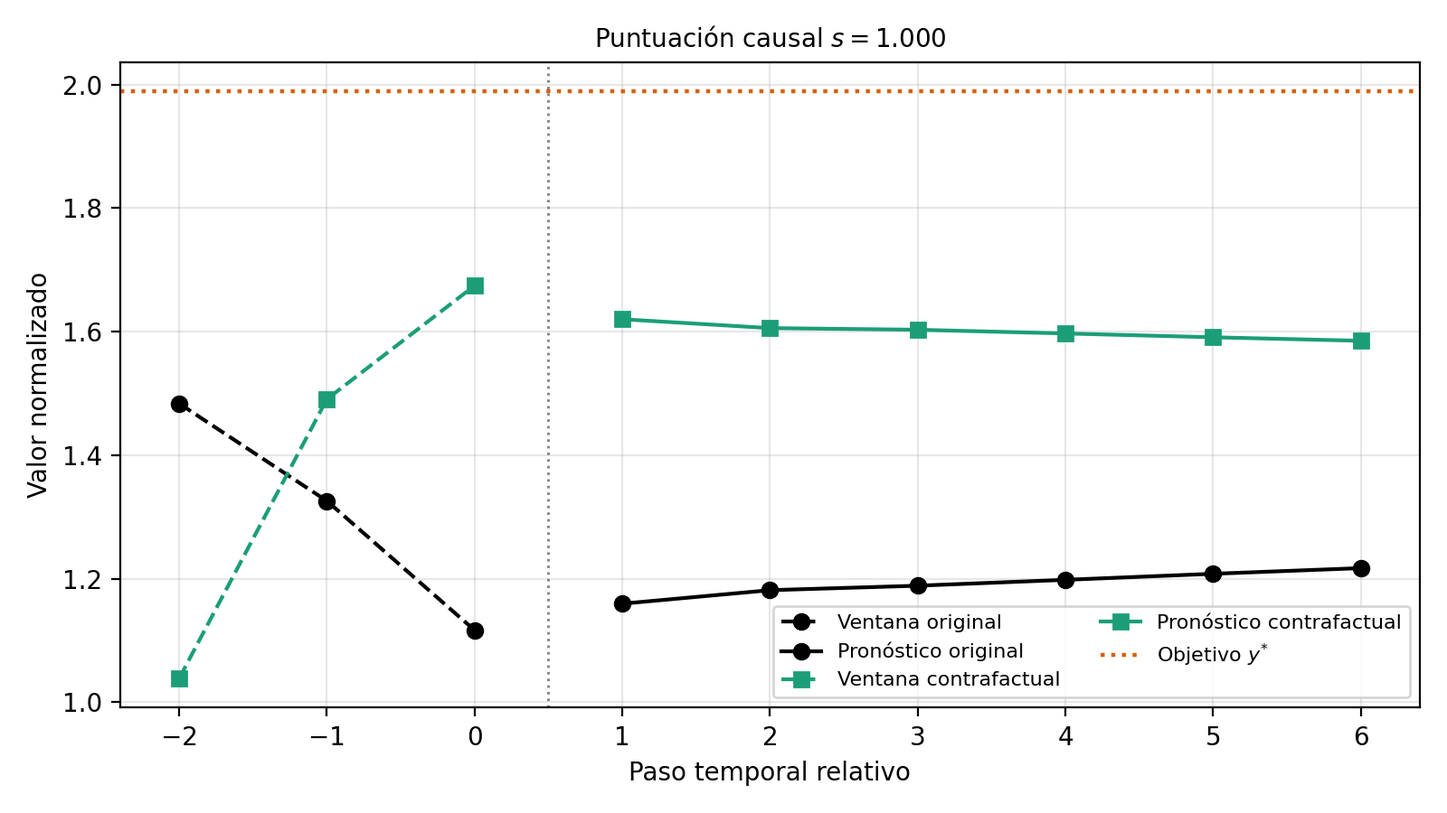
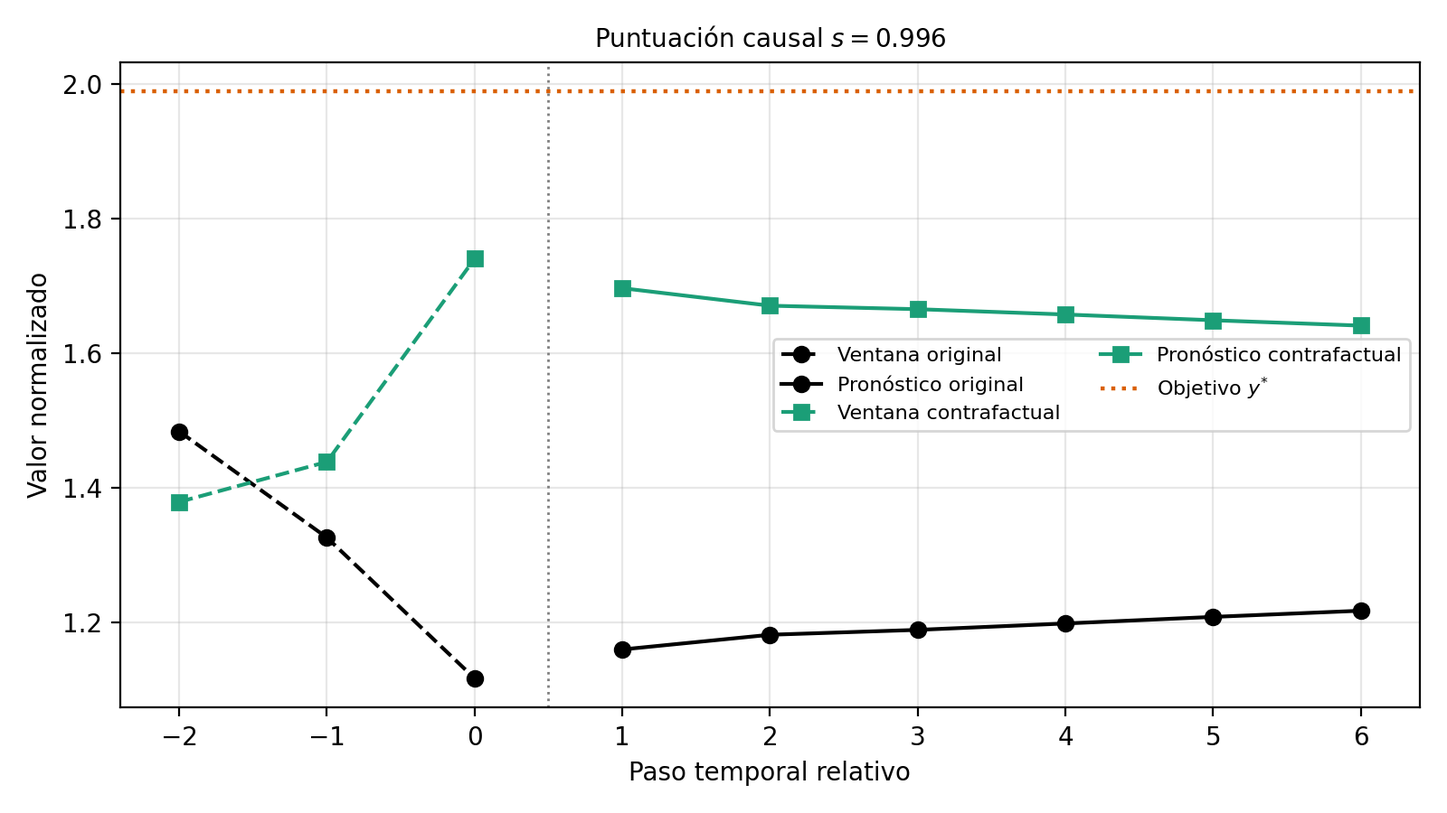
doc: añadir VAR(4)

diff --git a/docs/report/report.tex b/docs/report/report.tex
@@ -1541,7 +1541,7 @@ Los métodos de XAI son diversos y permiten atacar los problemas de explicabilid
 \end{itemize}
 
 \chapter{Estado del arte}
-
+\label{cap:estadodelarte}
 \section{Explicaciones contrafactuales}
 
 Las explicaciones contrafactuales son predicciones que describen el cambio mínimo a realizar a una instancia para que el modelo prediga un nuevo valor predefinido. Estas predicciones responden a preguntas del tipo \textit{"si X no hubiese ocurrido, Y no habría ocurrido"}, como por ejemplo \textit{"si hubiese tenido mayor salario, me habrían concedido el préstamo"}. Las explicaciones contrafactuales son predicciones sobre mundos hipotéticos, ya que la instancia original es el suceso que en realidad sí ocurrió. Las explicaciones contrafactuales deben ser amigables con los seres humanos, similares a la instancia original, accionables y variadas \cite{molnar2025}.
@@ -2795,6 +2795,7 @@ En el ejemplo anterior se observan los siguientes aspectos relevantes:
 \end{itemize}
 
 \chapter{Resultados}
+\label{cap:resultados}
 
 En este capítulo se presenta una evaluación contra la implementación del algoritmo \texttt{CFGTS}, descrito en el Capítulo~\ref{cap:propuesta}. El protocolo de evaluación está basado en el trabajo de \cite{Wang2023} y \cite{Kan2024}. Para ello se intenta responder a la pregunta, \textit{¿incorporar la puntuación causal aporta información relevante al contrafactual?}
 
@@ -2802,7 +2803,7 @@ En este capítulo se presenta una evaluación contra la implementación del algo
 
 \subsection{Conjuntos de datos}
 
-Se emplean dos conjuntos de datos, resumidos en la Tabla~\ref{tab:res_datos}. El primero es un conjunto sintético de 20 series AR(2) estacionarias de longitud variable y mecanismo generador lineal, el segundo es la serie de actividad solar \textit{Sunspots} (1700-2008), no lineal y con un ciclo conocido de (aproximadamente) once años.
+Se emplean tres conjuntos de datos, resumidos en la Tabla~\ref{tab:res_datos}. El primero es un conjunto sintético de 20 series AR(2) estacionarias de longitud variable y mecanismo generador lineal, el segundo es un conjunto sintético bivariante VAR(4) de dos variables, y el tercero es la serie de actividad solar \textit{Sunspots} (1700-2008), no lineal y con un ciclo conocido de (aproximadamente) once años.
 
 Cada serie se entrena con los métodos usuales para series temporales, con un split 60, 20, 20, y se normaliza cada variable por por \textit{min-max}.
 
@@ -2822,48 +2823,46 @@ Cada serie se entrena con los métodos usuales para series temporales, con un sp
 
 \subsection{Modelos y objetivos}
 
-A cada conjunto de datos se ajustan dos modelos: una regresión lineal y un \textit{Random Forest}. El valor objetivo de cada instancia se define como una ventana, $y^{*}_d = \operatorname{mediana}(\mathbf{x}_{0,d}) \cdot (1 + cp)$, con $cp = 0{,}50$.
+A cada conjunto de datos se ajustan dos modelos: una regresión lineal y un \textit{Random Forest}. El valor objetivo de cada instancia se define como una ventana de cambio porcentual ($cp$), $y^{*}_d = \operatorname{mediana}(\mathbf{x}_{0,d}) \cdot (1 + cp)$, con $cp = 0{,}50$.
 
-La Tabla~\ref{tab:res_protocolo} recoge la configuración, que constitute 126 ejecuciones de CFGTS.
+La Tabla~\ref{tab:res_protocolo} recoge la configuración, que constitute 216 ejecuciones de CFGTS.
 
 \begin{table}[H]
     \ttabbox[\FBwidth]
     {\caption{Configuración experimental de la evaluación de CFGTS}\label{tab:res_protocolo}}
     {\begin{tabular}{|p{6.2cm}|p{5.8cm}|}
             \hline
-            \textbf{Parámetro}                      & \textbf{Valor}                                                  \\
+            \textbf{Parámetro}                                    & \textbf{Valor}                                                  \\
             \hline
-            Orden de retardo $p$                    & 3                                                               \\
+            Horizonte de predicción $T$                           & 6                                                               \\
             \hline
-            Horizonte de predicción $T$             & 6                                                               \\
+            Partición                                             & 60/20/20                                                        \\
             \hline
-            Partición                               & 60/20/20                                                        \\
+            Normalización                                         & \textit{min-max}                                                \\
             \hline
-            Normalización                           & \textit{min-max}                                                \\
+            Paso entre ventanas de prueba                         & $p + T = 9$                                                     \\
             \hline
-            Paso entre ventanas de prueba           & $p + T = 9$                                                     \\
+            Modelos                                               & Regresión lineal y \textit{Random Forest}                       \\
             \hline
-            Modelos                                 & Regresión lineal y \textit{Random Forest}                       \\
+            \texttt{n\_trials} (Fase~1)                           & 300                                                             \\
             \hline
-            \texttt{n\_trials} (Fase~1)             & 300                                                             \\
+            \texttt{n\_coverage\_trials} (Fase~2)                 & 10                                                              \\
             \hline
-            \texttt{n\_coverage\_trials} (Fase~2)   & 10                                                              \\
+            \texttt{timeout} (tope de seguridad)                  & 60\,s                                                           \\
             \hline
-            \texttt{timeout} (tope de seguridad)    & 60\,s                                                           \\
+            $[r_{\min}, r_{\max}]$                                & $[0,\ 3]$                                                       \\
             \hline
-            $[r_{\min}, r_{\max}]$                  & $[0,\ 3]$                                                       \\
+            \texttt{n\_walk\_steps}                               & 1                                                               \\
             \hline
-            \texttt{n\_walk\_steps}                 & 1                                                               \\
+            Desplazamiento del objetivo de cambio porcentual $cp$ & ${,}50$                                                         \\
             \hline
-            Desplazamiento del objetivo $cp$        & ${,}50$                                                         \\
+            Semillas por instancia                                & $\{0, 1, 2\}$                                                   \\
             \hline
-            Semillas por instancia                  & $\{0, 1, 2\}$                                                   \\
+            Tamaño del submuestreo $K$                            & 5                                                               \\
             \hline
-            Tamaño del submuestreo $K$              & 5                                                               \\
+            Perturbaciones de control por ejecución               & 25                                                              \\
             \hline
-            Perturbaciones de control por ejecución & 25                                                              \\
-            \hline
-            Semilla base                            & 42\footnote{El sentido de la vida, el universo y todo lo demás} \\
+            Semilla base                                          & 42\footnote{El sentido de la vida, el universo y todo lo demás} \\
             \hline
         \end{tabular}}
 \end{table}
@@ -2893,6 +2892,8 @@ Antes de interpretar el \textit{score} se comprueba que los modelos usados son d
             \hline
             Sintético AR(2)   & 7{,}62          & 8{,}07                 \\
             \hline
+            Sintético VAR(4)  & 3{,}80          & 3{,}70                 \\
+            \hline
             \textit{Sunspots} & 15{,}63         & 12{,}94                \\
             \hline
         \end{tabular}}
@@ -2909,13 +2910,17 @@ La Tabla~\ref{tab:res_principal} contiene el resultado central de la evaluación
             \hline
             \textbf{Conjunto} & \textbf{Modelo} & $\bar{s}$            & $\bar{s}_{\text{ctrl}}$ & $\Delta$   & $p$                 \\
             \hline
-            Sintético AR(2)   & Lineal          & ${,}970 \pm 0{,}009$ & ${,}890$                & $+0{,}080$ & $\mathbf{<0{,}001}$ \\
+            Sintético AR(2)   & Lineal          & ${,}975 \pm 0{,}008$ & ${,}891$                & $+0{,}084$ & $\mathbf{<0{,}001}$ \\
             \hline
-            Sintético AR(2)   & Random Forest   & ${,}617 \pm 0{,}046$ & ${,}506$                & $+0{,}110$ & $\mathbf{{,}005}$   \\
+            Sintético AR(2)   & Random Forest   & ${,}599 \pm 0{,}044$ & ${,}516$                & $+0{,}082$ & $\mathbf{{,}017}$   \\
             \hline
-            \textit{Sunspots} & Lineal          & ${,}955 \pm 0{,}015$ & ${,}923$                & $+0{,}032$ & $\mathbf{{,}04}$    \\
+            Sintético VAR(4)  & Lineal          & ${,}940 \pm 0{,}008$ & ${,}869$                & $+0{,}071$ & $\mathbf{<0{,}001}$ \\
             \hline
-            \textit{Sunspots} & Random Forest   & ${,}502 \pm 0{,}098$ & ${,}413$                & $+0{,}089$ & ${,}23$             \\
+            Sintético VAR(4)  & Random Forest   & ${,}537 \pm 0{,}061$ & ${,}413$                & $+0{,}124$ & $\mathbf{<0{,}001}$ \\
+            \hline
+            \textit{Sunspots} & Lineal          & ${,}948 \pm 0{,}063$ & ${,}917$                & $+0{,}030$ & ${,}26$             \\
+            \hline
+            \textit{Sunspots} & Random Forest   & ${,}500 \pm 0{,}099$ & ${,}421$                & $+0{,}079$ & ${,}06$             \\
             \hline
         \end{tabular}}
 \end{table}
@@ -2925,15 +2930,19 @@ La Tabla~\ref{tab:res_principal} contiene el resultado central de la evaluación
     {\caption[Estadísticos complementarios de la evaluación]{Máximo sobre un submuestreo de $K = 5$ candidatos ($s_K$), menor error relativo alcanzado en el frente ($J_{\text{obj}}^{\min}$), tamaño medio del frente y desviación típica entre semillas.}\label{tab:res_secundaria}}
     {\begin{tabular}{|p{2.9cm}|p{2.4cm}|c|c|c|c|}
             \hline
-            \textbf{Conjunto} & \textbf{Modelo} & $s_K$  & $J_{\text{obj}}^{\min}$ & \textbf{Cand.} & $\sigma_{\text{sem}}$ \\
+            \textbf{Conjunto} & \textbf{Modelo} & $s_K$    & $J_{\text{obj}}^{\min}$ & \textbf{Cand.} & $\sigma_{\text{sem}}$ \\
             \hline
-            Sintético AR(2)   & Lineal          & {,}994 & {,}001                  & 15{,}6         & {,}020                \\
+            Sintético AR(2)   & Lineal          & ${,}995$ & ${,}001$                & 15{,}8         & ${,}018$              \\
             \hline
-            Sintético AR(2)   & Random Forest   & {,}808 & {,}112                  & 12{,}3         & {,}049                \\
+            Sintético AR(2)   & Random Forest   & ${,}783$ & ${,}111$                & 11{,}3         & ${,}074$              \\
             \hline
-            \textit{Sunspots} & Lineal          & {,}991 & {,}002                  & 13{,}9         & {,}236                \\
+            Sintético VAR(4)  & Lineal          & ${,}983$ & ${,}043$                & 12{,}7         & ${,}029$              \\
             \hline
-            \textit{Sunspots} & Random Forest   & {,}748 & {,}134                  & 12{,}1         & {,}080                \\
+            Sintético VAR(4)  & Random Forest   & ${,}718$ & ${,}358$                & 8{,}8          & ${,}075$              \\
+            \hline
+            \textit{Sunspots} & Lineal          & ${,}990$ & ${,}001$                & 12{,}3         & ${,}047$              \\
+            \hline
+            \textit{Sunspots} & Random Forest   & ${,}786$ & ${,}135$                & 13{,}3         & ${,}072$              \\
             \hline
         \end{tabular}}
 \end{table}
@@ -2944,7 +2953,7 @@ El segundo patrón, y el más importante, es que \textbf{el control aleatorio ob
 
 \begin{figure}[H]
     \ffigbox[\FBwidth]{
-        \caption[Distribución de las puntuaciones de consistencia causal]{Distribución de la puntuación media del frente de Pareto por ejecución, desagregada por conjunto de datos y modelo. Las puntuaciones del modelo lineal (azul) se concentran junto a la unidad en ambos conjuntos, mientras que las del \textit{Random Forest} (naranja) se reparten en torno a ${,}5$ con gran dispersión.}
+        \caption[Distribución de las puntuaciones de consistencia causal]{Distribución de la puntuación media del frente de Pareto por ejecución, desagregada por conjunto de datos y modelo. Las puntuaciones del modelo lineal (azul) se concentran junto a la unidad en los tres conjuntos, mientras que las del \textit{Random Forest} (naranja) se reparten en torno a ${,}5$ con gran dispersión.}
         \label{fig:res_scores}
     }{
         \includegraphics[width=\linewidth]{fig_score_distribution.png}
@@ -2954,10 +2963,9 @@ El segundo patrón, y el más importante, es que \textbf{el control aleatorio ob
 \section{Conjunto de datos sintéticos}
 
 Los conjuntos de datos sintéticos que se han usado permite responder a una de las premisas básicas de este trabajo, un mecanismo generador y modelo lineales inducen una estructura de tipo grafo causal que \texttt{CFGTS} puede capturar.
+La experimentación con los conjuntos datos confirman la hipótesis en ambos casos. Con modelo lineal, $\bar{s}$ alcanza ${,}975 \pm 0{,}008$ en AR(2) y ${,}940 \pm 0{,}008$ en VAR(4).
 
-La experimentación con los conjuntos datos confirman la hipótesis. Con modelo lineal, $\bar{s}$ alcanza ${,}970 \pm 0{,}009$, el valor más alto y más estable de toda la evaluación.
-
-Al sustituir el modelo por un \textit{Random Forest} la puntuación cae a ${,}617 \pm 0{,}046$. Aquí la puntuación deja de ser trivialmente alta, pero el control también desciende en paralelo, hasta ${,}506$.
+Al sustituir el modelo por un \textit{Random Forest} la puntuación cae a ${,}599 \pm 0{,}044$ en AR(2) y a ${,}537 \pm 0{,}061$ en VAR(4). Aquí la puntuación deja de ser alta pero el control también desciende en paralelo, hasta ${,}516$ y ${,}413$ respectivamente.
 
 La Figura~\ref{fig:res_ejemplo} muestra cualitativamente una ejecución sobre el conjunto AR(2). La predicción se desplaza de forma coherente hacia delante, pese a que la optimización solo controla explícitamente la entrada.
 
@@ -2974,9 +2982,9 @@ La Figura~\ref{fig:res_ejemplo} muestra cualitativamente una ejecución sobre el
 
 Para evaluar un conjunto de datos reales, se ha escogido la serie \textit{Sunspots}. Esta serie presenta no linealidad, un período de 11 años, amplitud no estacionaria y heterocedasticidad. Además, los modelos usados son desfavorables en esta serie, al ser modelos de orden 3 (inferior al período de 11). La Tabla~\ref{tab:res_smape} refleja los errores sMAPE obtenidos al ajustar los modelos lineal y Random Forest a los datos.
 
-El comportamiento de la puntuación causal apenas se distingue del observado en el conjunto sintético: ${,}955 \pm 0{,}015$ con modelo lineal y ${,}502 \pm 0{,}098$ con \textit{Random Forest}. La degradación respecto del escenario controlado es de apenas ${,}015$ puntos para el modelo lineal.
+El comportamiento de la puntuación causal apenas se distingue del observado en el conjunto sintético: ${,}948 \pm 0{,}063$ con modelo lineal y ${,}500 \pm 0{,}099$ con \textit{Random Forest}. La degradación respecto del escenario controlado es de apenas ${,}027$ puntos para el modelo lineal.
 
-Esta insensibilidad es en sí misma el resultado: se recuerda de la Fase~3 de la propuesta que la puntuación causal no mide la fidelidad del modelo al proceso real, sino la \textit{coherencia interna} entre el contrafactual y el mecanismo que el modelo ha aprendido. Un modelo lineal de orden 3 es un mal predictor de la actividad solar (al menor peor que el Random Forest). La consecuencia práctica es que una puntuación causal elevada no debe interpretarse como evidencia de que la explicación sea válida respecto del fenómeno, sino respecto del modelo; si el modelo es una mala representación del fenómeno, la explicación será internamente coherente y a la vez extrínsecamente engañosa.
+Esta insensibilidad es en sí misma el resultado: se recuerda de la Fase~3 de la propuesta que la puntuación causal no mide la fidelidad del modelo al proceso real, sino la \textit{coherencia interna} entre el contrafactual y el mecanismo que el modelo ha aprendido. Un modelo lineal de orden 3 es un mal predictor de la actividad solar (al menos peor que el Random Forest). La consecuencia práctica es que una puntuación causal elevada no debe interpretarse como evidencia de que la explicación sea válida respecto del fenómeno, sino respecto del modelo; si el modelo es una mala representación del fenómeno, la explicación será internamente coherente y a la vez extrínsecamente engañosa.
 
 \section{Contraste con el control aleatorio}
 \label{sec:res_control}
@@ -2994,7 +3002,7 @@ La Figura~\ref{fig:res_control} muestra la comparación del \textit{score} causa
 
 \section{Relación con los objetivos de la Fase 1}
 
-Siguiendo con la discusión, se ha comprobado con los conjuntos de datos que mejores contrafactuales llevan a mejores puntuaciones causales, pero entonces cabría preguntarse si el objetivo de optimización no consigue ya obtener contrafactuales que se consideren causales respecto al modelo, sin que tengamos que calcular para ello una puntuación. Para responderlo se computó la correlación entre la puntuación $s$ y cada uno de los objetivos. El resultado agregado sobre las 126 ejecuciones es $\rho(s, J_{\text{obj}}) = -0{,}20$ y $\rho(s, J_{\text{prox}}) = +0{,}20$.
+Siguiendo con la discusión, se ha comprobado con los conjuntos de datos que mejores contrafactuales llevan a mejores puntuaciones causales, pero entonces cabría preguntarse si el objetivo de optimización no consigue ya obtener contrafactuales que se consideren causales respecto al modelo, sin que tengamos que calcular para ello una puntuación. Para responderlo se computó la correlación entre la puntuación $s$ y cada uno de los objetivos. El resultado agregado sobre las 216 ejecuciones es $\rho(s, J_{\text{obj}}) = -0{,}36$ y $\rho(s, J_{\text{prox}}) = +0{,}36$.
 
 La conclusión es que la puntuación causal es prácticamente ortogonal a los objetivos de la Fase~1: ordena los contrafactuales de tal forma que ninguno de los dos objetivos de optimización puede alcanzar.
 
@@ -3019,20 +3027,41 @@ La conclusión es que la puntuación causal es prácticamente ortogonal a los ob
 % Artificial intelligence act de la UE
 
 
-\chapter{Análisis del entorno}
-\section{Entorno socio-económico}
-% Hablar de la mejora en la toma de decisiones. Mayor confianza en IA. Mejor depurado de modelos
-% Impacto ambiental -> Es necesario realizar ejecuciones del modelo para llegar a la explicación contrafactual, lo que implica mayores emisiones de CO2 y consumo de agua -> Impacto negativo
+\chapter{Impacto económico, social, medioambiental y ético}
 
-% El TFG deberá deberá incorporar el desarrollo de los siguientes apartados:
-% • Presupuesto de la elaboración del TFG.
-% • Impacto socio-económico (impacto económico, social, medioambiental, ético, etc.) esperado de la aplicación del resultado del proyecto, plan de
-% explotación del mismo, o consideraciones sobre aspectos económicos de la temática del trabajo. Para trabajos teóricos, se debe detallar en qué
-% aplicaciones prácticas podría utilizarse y qué impacto socio-económico podría generar en el sector de aplicación.
-% Nótese que en la rúbrica de TFG se evaluará el ANÁLISIS del impacto socio-económico, no que el impacto sea positivo. Es decir, que se puede obtener
-% la máxima calificación para este apartado con un impacto socio-económico esperado de 0 – o negativo – siempre que el análisis sea correcto.
-% En la ‘Introducción’ debe quedar indicado claramente cuáles son los apartados en los que se reflejan los contenidos del ‘Entorno socio-económico’, siendo
-% recomendable que haya un apartado específico sobre el entorno socio-económico.
+Se comprenden los impactos que este trabajo puede tener como aquellas consecuencias directas o indirectas que puede provocar su uso en los ámbitos económico, social, medioambiental y ético. Este trabajo formaliza un algoritmo junto con una implementación de referencia, lo que provoca que los impactos sean principalmente indirectos y potenciales: se materializa en la medida que terceros (investigadores, gobiernos, empresas, etc.) implementen su propia versión del algoritmo.
+
+\section{Impacto económico}
+
+El impacto económico se entiende como la posibilidad de alterar el uso de los recursos económico-financieros de una organización por el uso del algoritmo. Principalmente se identifica que el uso de \texttt{CFGTS} tiene el potencial de reducir el coste de incorporar explicabilidad los modelos desplegados:
+\begin{enumerate}
+    \item El algoritmo no necesita el \textit{dataset} de entrenamiento. Según lo formalizado en Capítulo~\ref{cap:propuesta}, el algoritmo solo necesita un modelo ajustado, una instancia y un objetivo contrafactual. Es relavanto porque con frecuencia las organizaciones necesitan aplicar políticas de retención de datos (es decir, borrado de datos) ya sea por protección de datos o costes de almacenamiento. Auditar un modelo con \texttt{CFGTS} se vuelve una operación de menor coste.
+    \item El algoritmo es agnóstico al modelo. Al no imponerse una forma funcional, las organizaciones no tienen que desarrollar algoritmos de explicabilidad específicos por tipo de modelo. La implementación de referencia necesita que el modelo exponga la interfaz de \texttt{RegressorMixin} de scikit-learn, pero una implementación diferente del algoritmo (por ejemplo una basada en \texttt{PyTorch}) puede usar otro tipo de interfaz. Esto reduce la barrera de entrada a la explicabilidad en los equipos de ciencia de datos encargados de los modelos.
+\end{enumerate}
+
+
+\section{Impacto social}
+
+Los modelos de series temporales para los que \texttt{CFGTS} genera contrafactuales pueden usarse para tomar decisiones con un impacto directo sobre la sociedad: demanda eléctrica, parámetros clínicos contínuos o número de préstamos en \textit{default} son problemas en los que los modelos de series temporales son usados usualmente. En estos contextos poder generar explicaciones contrafactuales puede mejorar la confianza del operador en las situaciones en las que no es capaz de entender porqué el modelo ha predicho cierta cantidad y no otra. Esta confianza es positiva y entra en línea con las razones de interpretabilidad expuestas en el Capítulo~\ref{cap:estadodelarte}.
+
+Por otra parte, hay que matizar el límite de la confianza que puede aportar el uso del algoritmo a los operadores del modelo, ya que la puntuación de consistencia causal $s$ mide la coherencia del contrafactual contra lo esperado en un proceso causal. Del Capítulo~\ref{cap:resultados} se puede recordar que los modelos con un peor poder de predicción pueden obtener mejores puntuaciones de causalidad en sus contrafactuales. Es decir que la puntuación generada no debe arrojar confianza sobre el modelo que genera los contrafactuales, sino sobre los contrafactuales generados. Una puntuación causal elevada puede llevar a un efecto conocido en la literatura como \textit{explicabilidad de fachada}: una falsa sensación de que el modelo es válido porque sus contrafactuales son válidos.
+
+Por último la naturaleza libre y agnóstica del modelo permite la democratización de la explicabilidad, que tradicionalmente está reservada a grandes empresas con especialistas en inteligencia artificial.
+
+\section{Impacto medioambiental}
+
+Por diseño \texttt{CFGTS} no inspecciona los parámetros internos del modelo, sino que obtiene información del modelo mediante la ejecución repetida del modelo durante la fase de optimización de la Fase~1. Por ejemplo con la configuración experimental del Capítulo~\ref{cap:resultados} se dan hasta 300 evaluaciones del modelo en la Fase~1. Generar los contrafactuales y asignarles la puntuación es varios órdenes de magnitud más intensivo energéticamente que hacer una única inferencia. Esto se traduce en un mayor gasto eléctrico, y de forma indirecta mayor consumo de agua y mayores emisiones de dióxido de carbono. Este problema no es exclusivo de \texttt{CFGTS}, ya que otros métodos de explicabilidad como LIME o DiCE también sufren de esta desventaja.
+
+Aun así, la implementación de referencia incluye mecanismos para acotar el impacto medioambiental mediante los parámetros \texttt{n\_trials}, \texttt{n\_coverage\_trials} y \texttt{timeout}, que permiten limitar tanto las evaluaciones como como el tiempo máximo de búsqueda en los problemas de optimización. El opreador que despliegue \texttt{CFGTS} puede intercambiar de forma consciente estabilidad de la explicación por consumo energético.
+
+\section{Impacto ético}
+
+De los capítulos de implementación y resultados se puede recordar que la puntuación causal es relativa a los contrafactuales. La presentación de estas puntuaciones a operadores no técnicos (como un médico, un paciente, un responsable de negocio o un regulador gubernamental) puede dar una apariencia de validez a modelos que no tienen porqué ser correctos. Esta confusión puede llevar a tomar decisiones con una confianza indebida. Es responsabilidad del operador de \texttt{CFGTS} comunicar esta distinción a los usuarios.
+
+Segundo, el algoritmo admite un parámetro llamado \textit{whitelist} de variables modificables (Capítulo~\ref{cap:propuesta}). Este mecanismo puede usarse incorrectamente de la siguiente forma: imaginemos un modelo que deniega un préstamo por el género del cliente. El operador de \texttt{CFGTS} podría usar el algoritmo para generar un contrafactual en el que el género no está incluido en la \textit{whitelist}, y así poder justificar la decisión sesgada del modelo; se podrían justificar \textit{a posteriori} decisiones ya tomadas de forma discriminatoria.
+
+El planteamiento de generar contrafacuales sin tener acceso a los datos es afín al derecho a una explicación significativa sobre decisiones automatizadas que recoge el artículo~22 del RGPD. El algoritmo tendría un potencial positivo para poder proveer a los ciudadanos de explicaciones sobre decisiones que les afectan.
+
 
 \chapter{Planificación}
 
